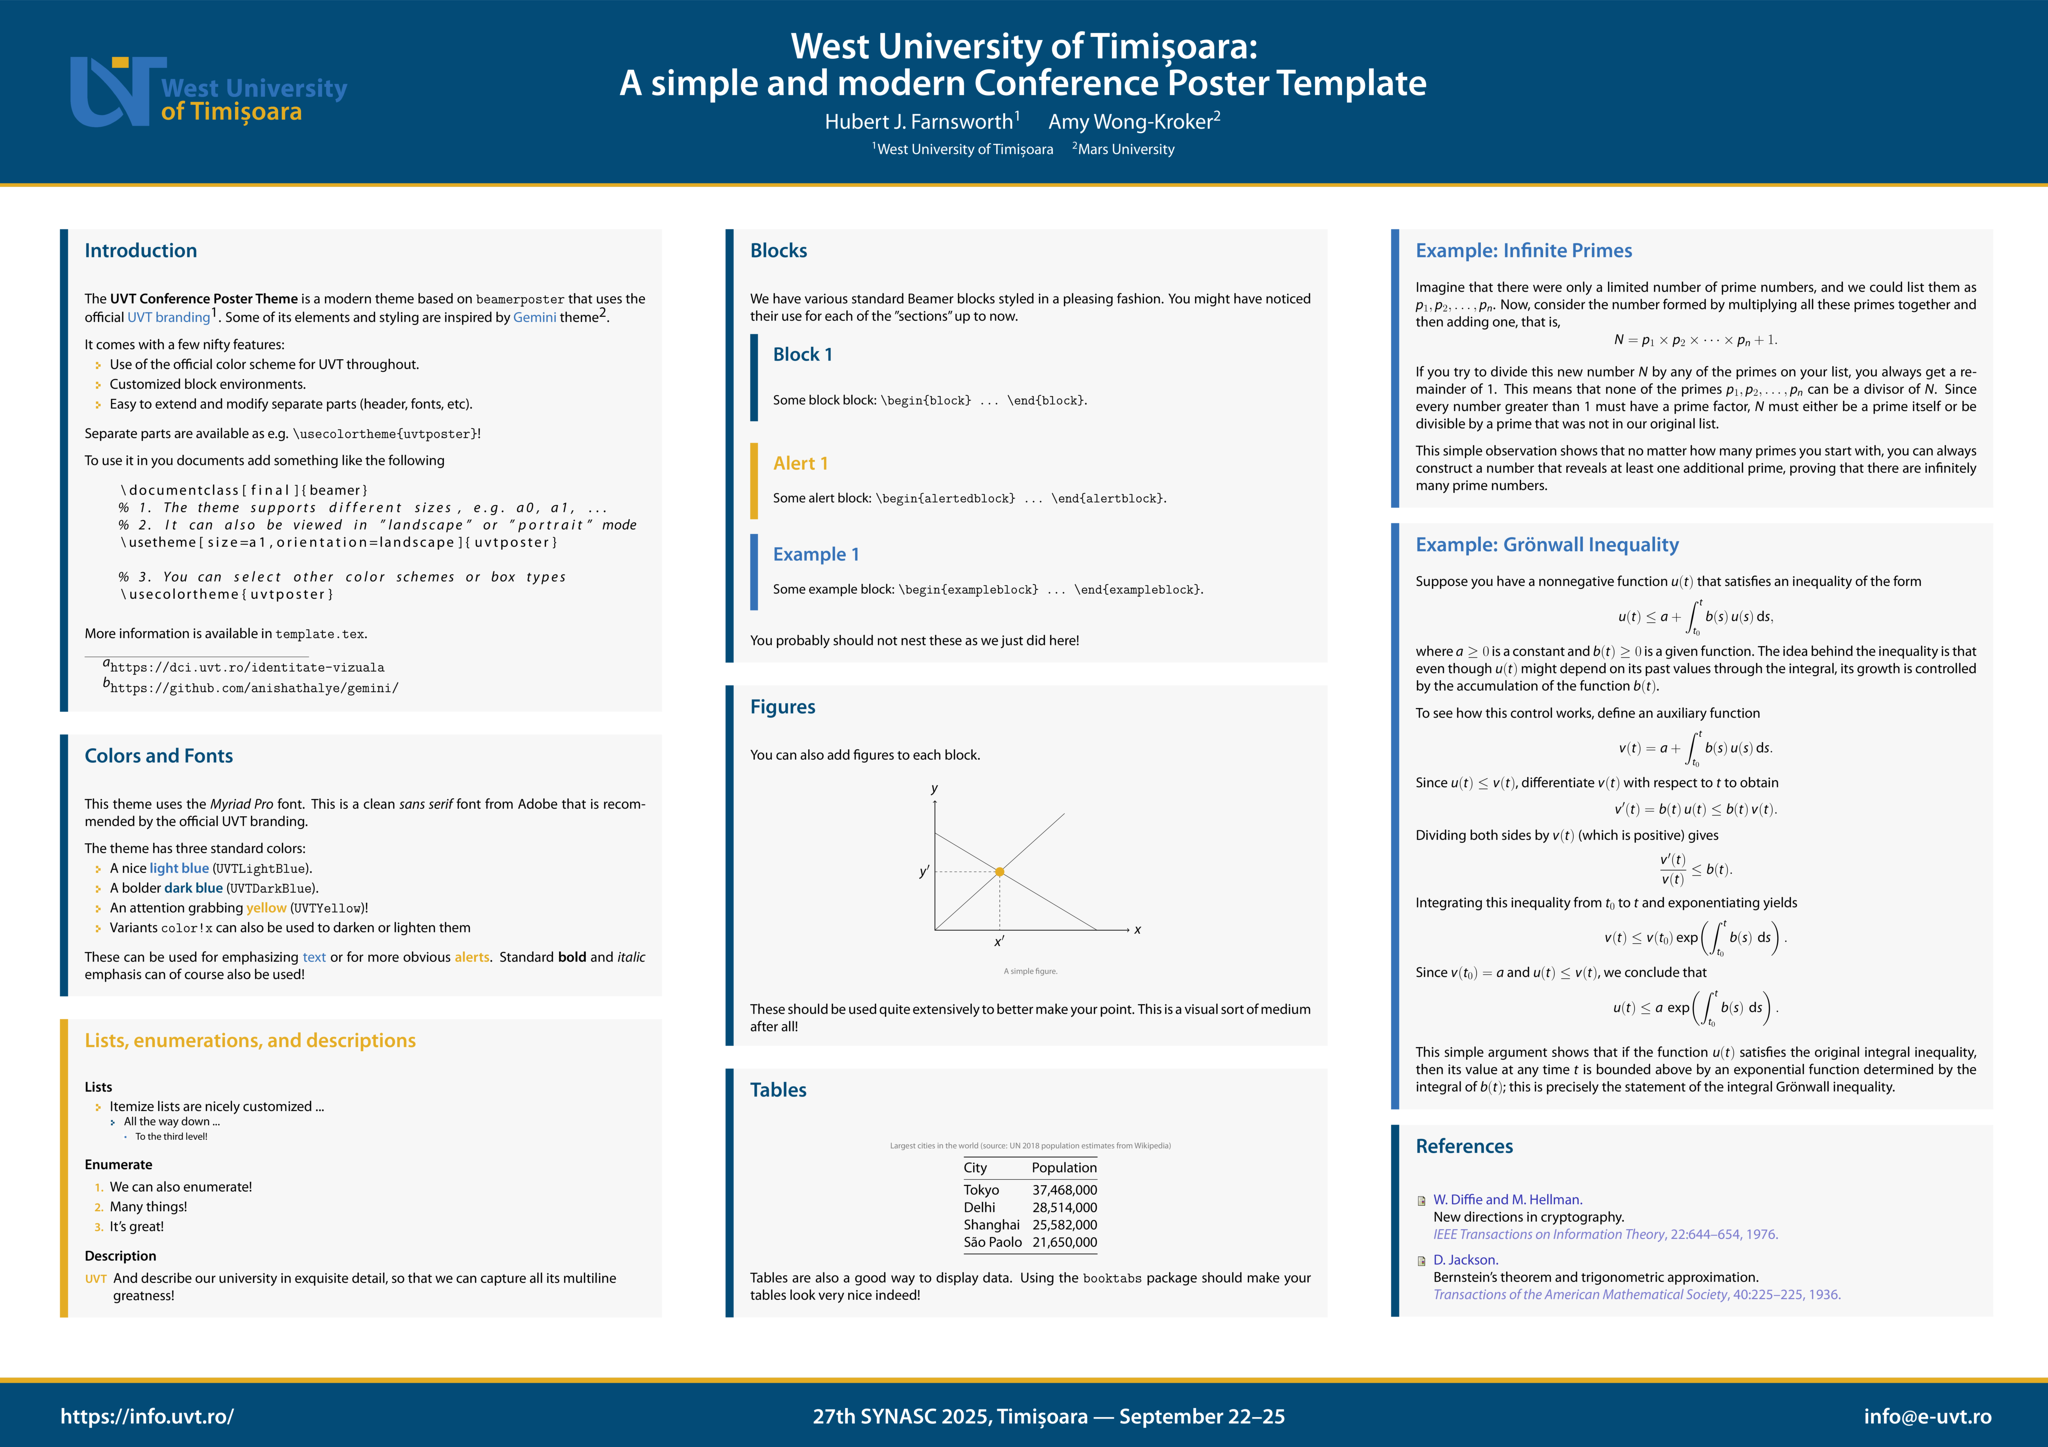
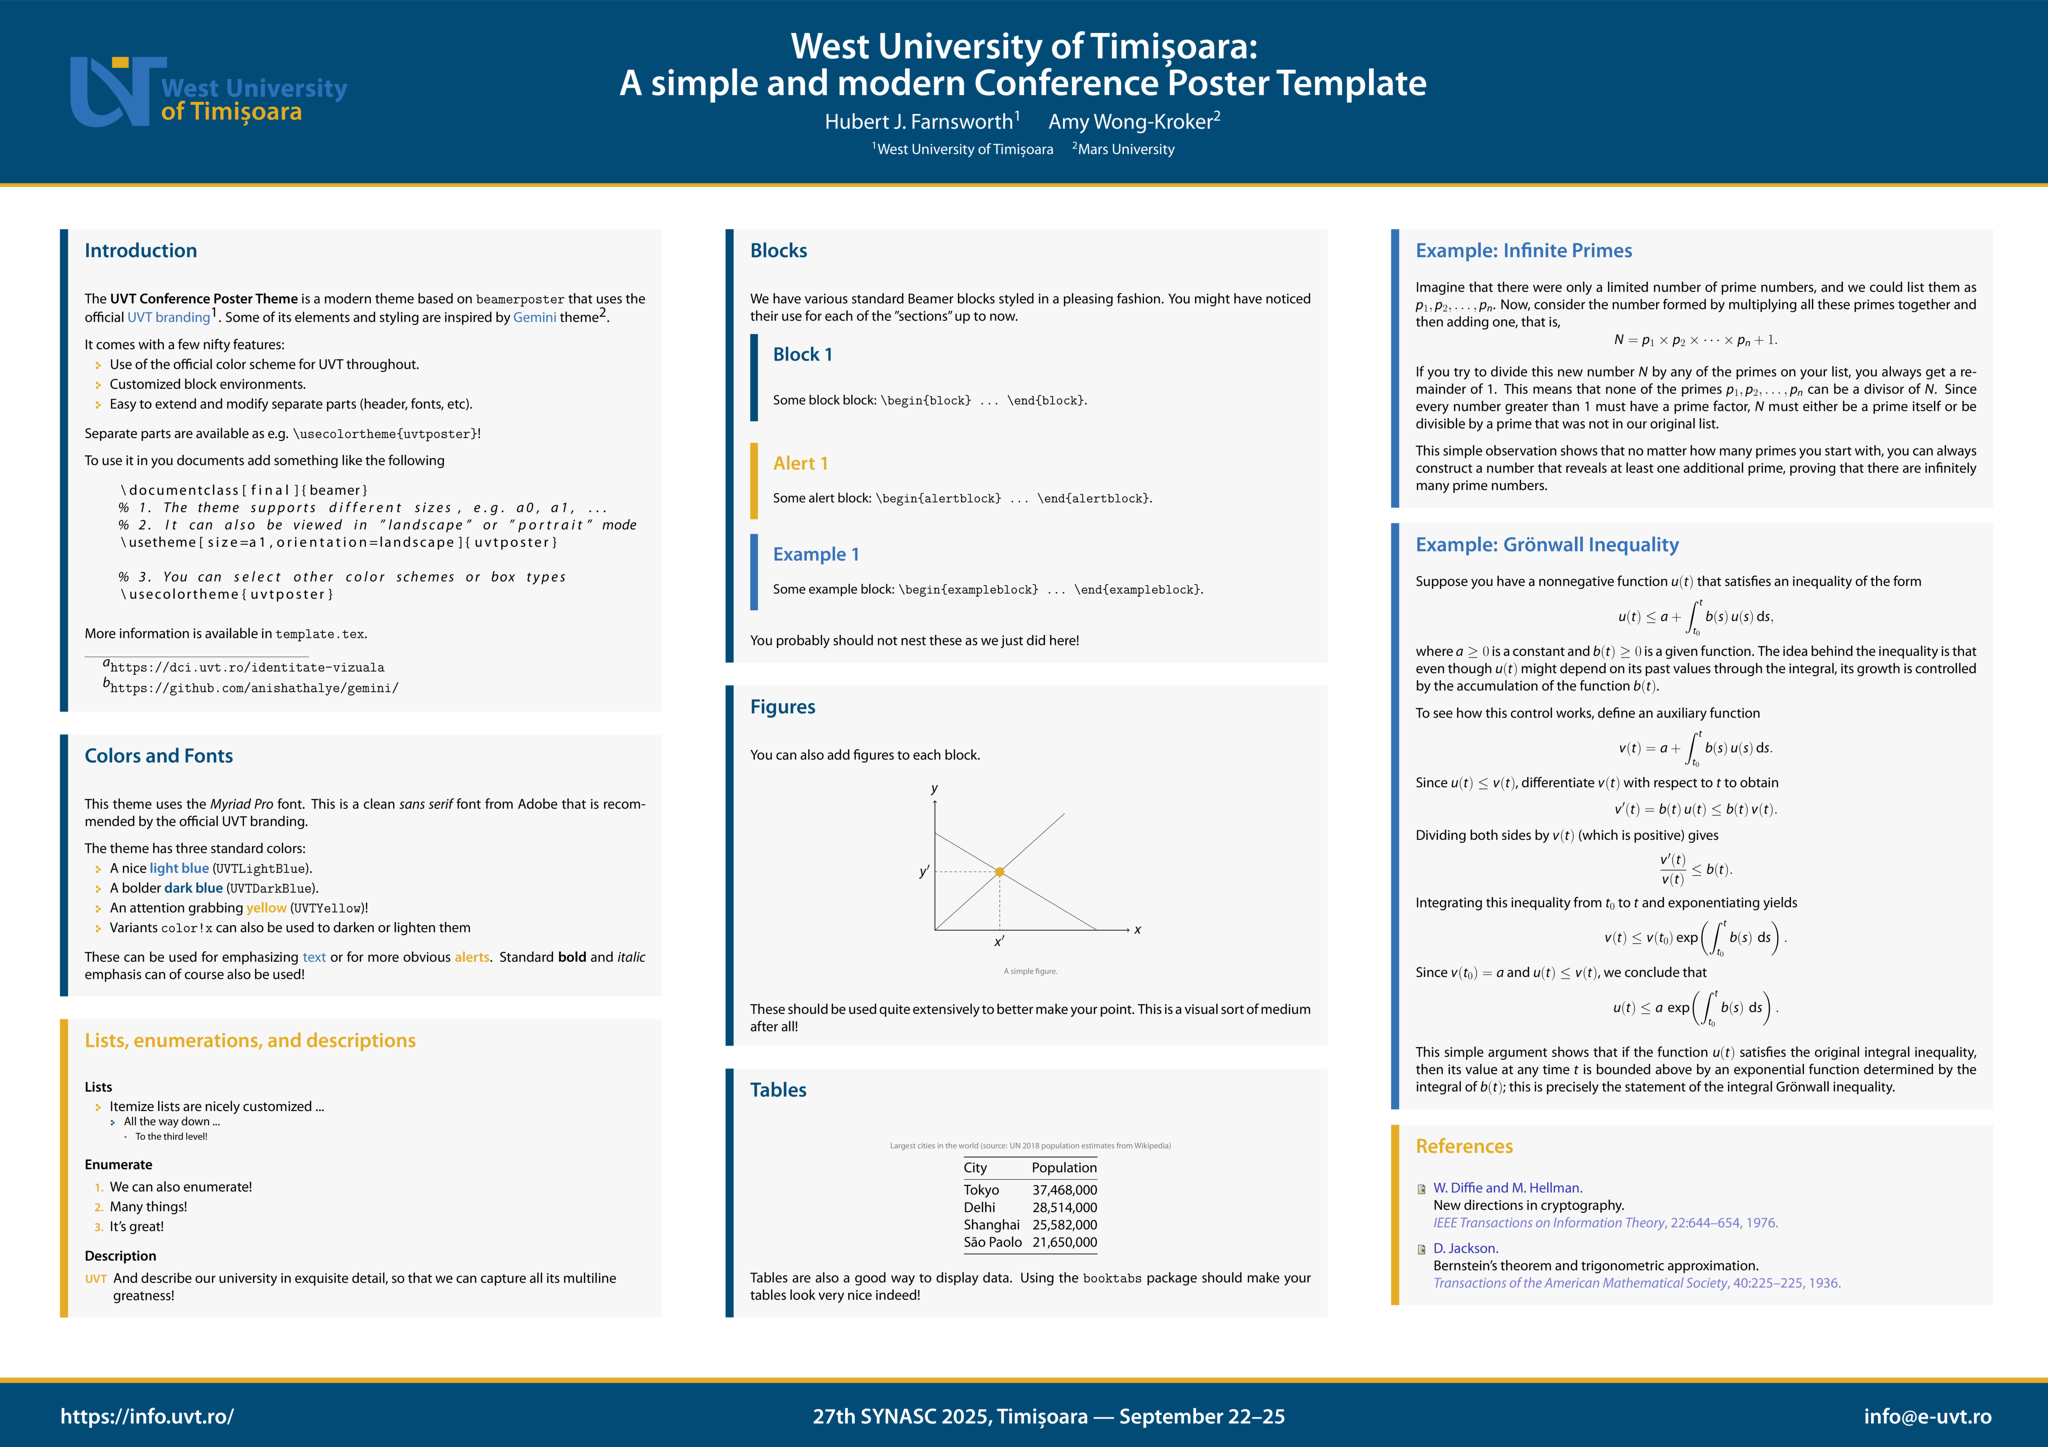
feat: add another yellow block

Changed region(s): [[0.6562, 0.7775, 0.9062, 0.9019], [0.5312, 0.3421, 0.5625, 0.3732]]

diff --git a/template.tex b/template.tex
@@ -146,7 +146,7 @@
     \end{block}
 
     \begin{alertblock}{Alert 1}
-        Some alert block: \verb|\begin{alertedblock} ... \end{alertblock}|.
+        Some alert block: \verb|\begin{alertblock} ... \end{alertblock}|.
     \end{alertblock}
 
     \begin{exampleblock}{Example 1}
@@ -286,11 +286,11 @@
     the statement of the integral Grönwall inequality.
 \end{exampleblock}
 
-\begin{block}{References}
+\begin{alertblock}{References}
     \nocite{*}
     \bibliographystyle{plain}
     \bibliography{template}
-\end{block}
+\end{alertblock}
 
 \end{column}
 \separatorcolumn
